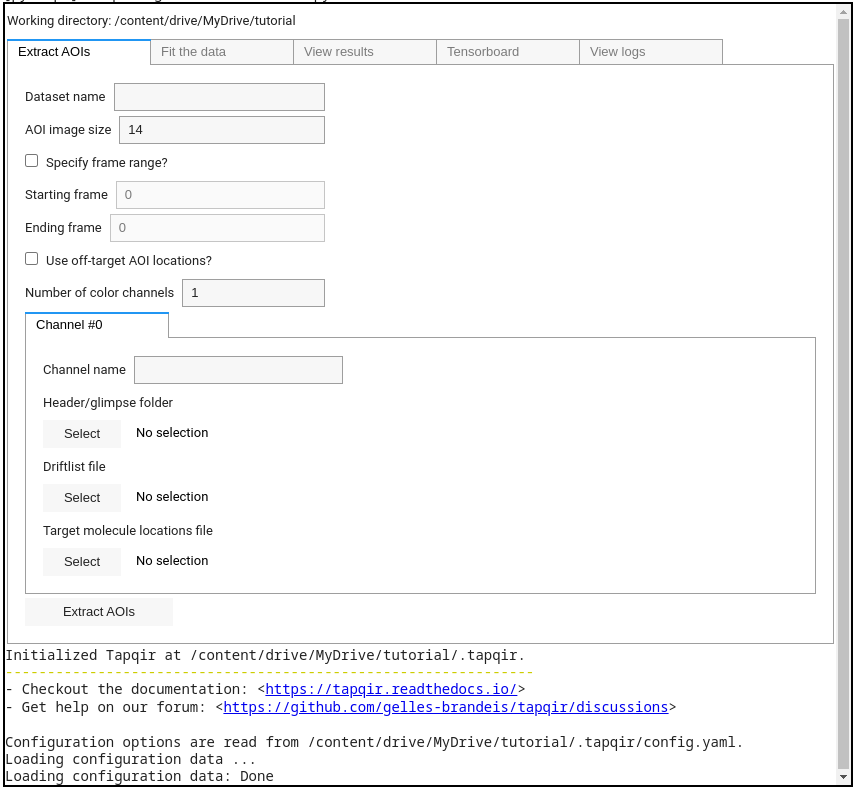
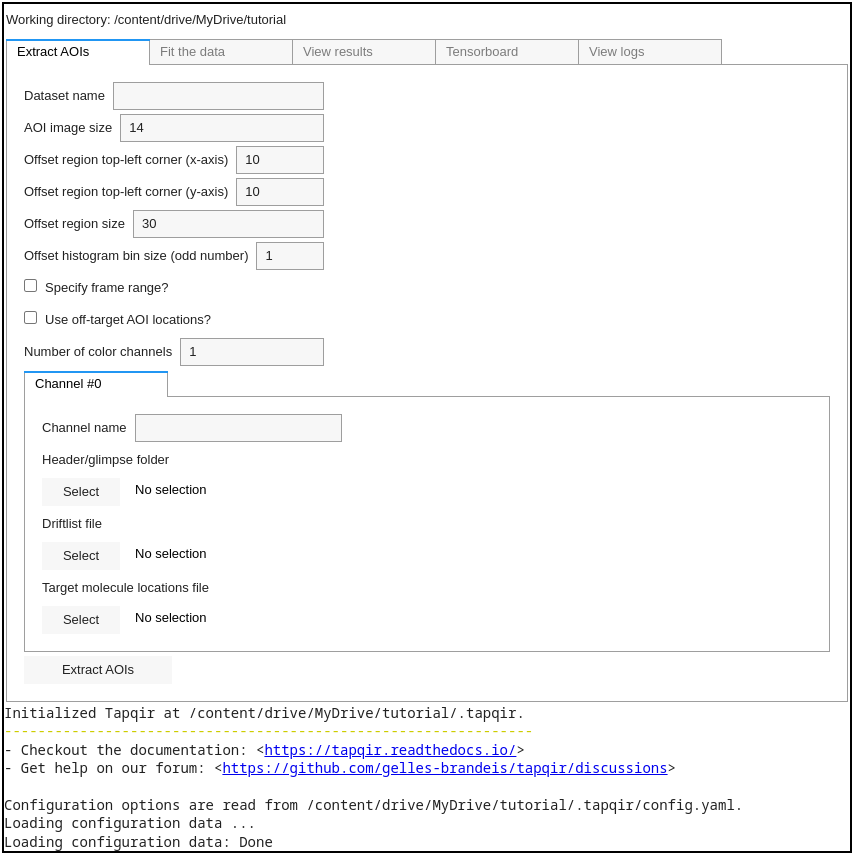
update docs

diff --git a/docs/source/tutorials/part_ii_linux.rst b/docs/source/tutorials/part_ii_linux.rst
@@ -85,6 +85,8 @@ And specify the locations of input files for each color channel (only one color 
 * Target molecule locations file: ``/home/{your_username}/DatasetA_glimpse/green_DNA_locations.dat``
 * Off-target control locations file: ``/home/{your_username}/DatasetA_glimpse/green_nonDNA_locations.dat``
 
+See Advanced settings below to adjust offset parameters.
+
 .. note::
 
    **About indexing**. In Python indexing starts with 0. We stick to this convention and index AOIs, frames, color channels,
@@ -141,6 +143,8 @@ Now the data is ready for fitting. Options that we will select:
 * Frame batch size - use default (``512``).
 * Learning rate - use default (``0.005``).
 * Number of iterations - use default (``0``)
+
+See Advanced settings below to adjust prior parameters.
 
 .. note::
    **About batch size**. Batch sizes should impact *training time* and *memory consumption*. Ideally,
@@ -236,13 +240,10 @@ keys or by left-clicking on the plot.
 Advanced settings
 -----------------
 
-Tapqir settings can be directly accessed and modified through the configuration file ``config.yaml`` under ``.tapqir``
-sub-folder of the working directory. It also contains additional options that are not available through the GUI.
-
 Offset
 ^^^^^^
 
-Offset data region (square) can be edited using three variables:
+Offset data region (yellow square) can be edited using three variables:
 
 * ``offset_x``: left corner of the square (default is 10 pixels)
 * ``offset_y``: top corner of the square (default is 10 pixels)
